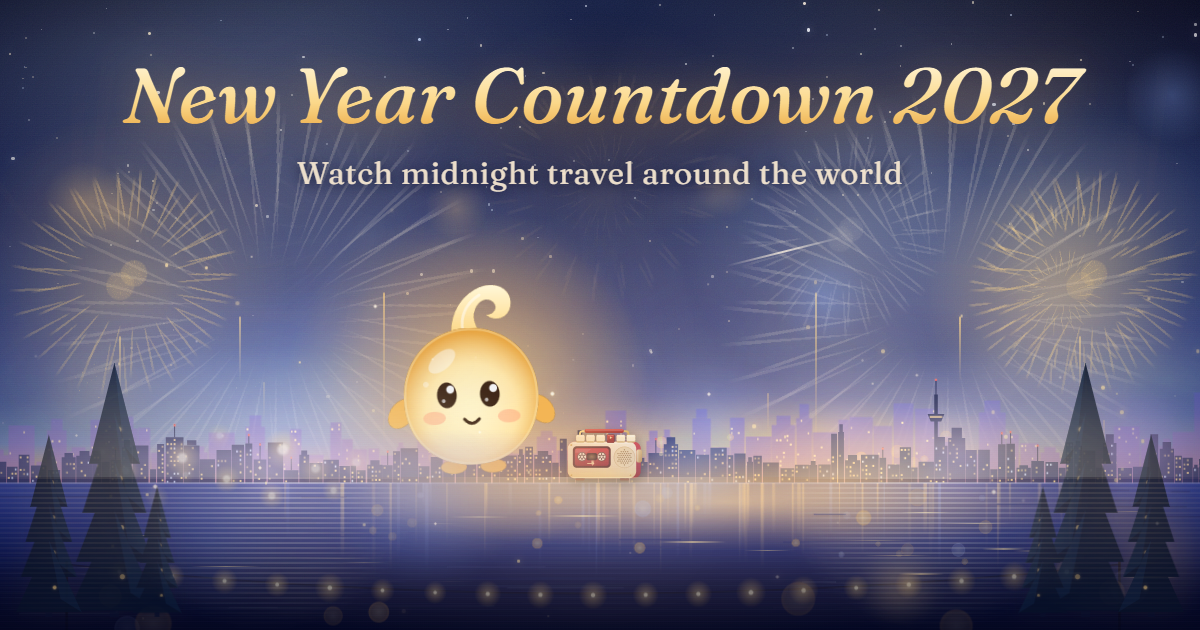
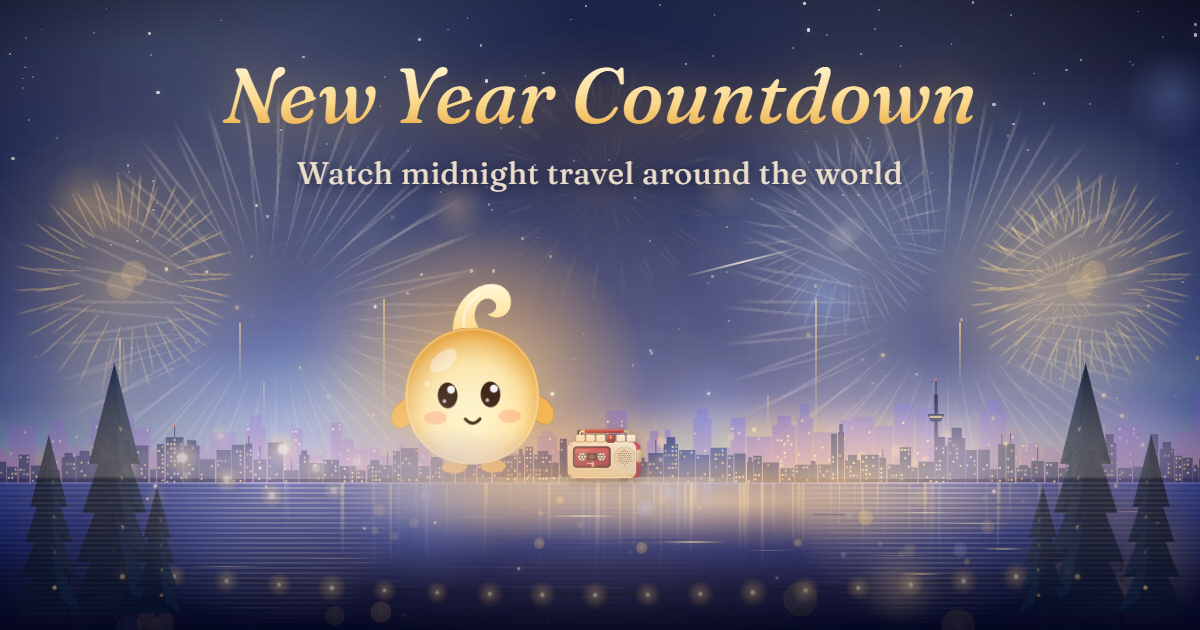
Made New Year branding evergreen

diff --git a/index.html b/index.html
@@ -18,27 +18,27 @@
       type="font/woff2"
       crossorigin
     />
-    <title>New Year Countdown 2027 – Live Countdown to Midnight</title>
-    <meta name="description" content="Live New Year countdown to 2027. Choose your city or time zone, watch midnight travel around the world on the map, and celebrate with fireworks at midnight." />
+    <title>New Year Countdown – Live Countdown to Midnight</title>
+    <meta name="description" content="Live New Year countdown. Choose your city or time zone, watch midnight travel around the world on the map, and celebrate with fireworks at midnight." />
     <link rel="canonical" href="https://newyear.seerat.me/" />
     <meta name="robots" content="index,follow,max-image-preview:large" />
     <meta name="author" content="Seerat.me" />
     <meta property="og:type" content="website" />
     <meta property="og:site_name" content="New Year Countdown" />
-    <meta property="og:title" content="New Year Countdown 2027 – Live Countdown to Midnight" />
-    <meta property="og:description" content="Live New Year countdown to 2027. Choose your city or time zone, watch midnight travel around the world on the map, and celebrate with fireworks at midnight." />
+    <meta property="og:title" content="New Year Countdown – Live Countdown to Midnight" />
+    <meta property="og:description" content="Live New Year countdown. Choose your city or time zone, watch midnight travel around the world on the map, and celebrate with fireworks at midnight." />
     <meta property="og:url" content="https://newyear.seerat.me/" />
     <meta property="og:locale" content="en_US" />
     <meta property="og:image" content="https://newyear.seerat.me/og-image.png" />
     <meta property="og:image:type" content="image/png" />
     <meta property="og:image:width" content="1200" />
     <meta property="og:image:height" content="630" />
-    <meta property="og:image:alt" content="Omid, a glowing round spirit, beside a cassette player under midnight fireworks above a city by the water, with the words New Year Countdown 2027." />
+    <meta property="og:image:alt" content="Omid, a glowing round spirit, beside a cassette player under midnight fireworks above a city by the water, with the words New Year Countdown." />
     <meta name="twitter:card" content="summary_large_image" />
-    <meta name="twitter:title" content="New Year Countdown 2027 – Live Countdown to Midnight" />
-    <meta name="twitter:description" content="Live New Year countdown to 2027. Choose your city or time zone, watch midnight travel around the world on the map, and celebrate with fireworks at midnight." />
+    <meta name="twitter:title" content="New Year Countdown – Live Countdown to Midnight" />
+    <meta name="twitter:description" content="Live New Year countdown. Choose your city or time zone, watch midnight travel around the world on the map, and celebrate with fireworks at midnight." />
     <meta name="twitter:image" content="https://newyear.seerat.me/og-image.png" />
-    <meta name="twitter:image:alt" content="Omid, a glowing round spirit, beside a cassette player under midnight fireworks above a city by the water, with the words New Year Countdown 2027." />
+    <meta name="twitter:image:alt" content="Omid, a glowing round spirit, beside a cassette player under midnight fireworks above a city by the water, with the words New Year Countdown." />
     <script type="application/ld+json">
 {
   "@context": "https://schema.org",
@@ -48,7 +48,7 @@
       "@id": "https://newyear.seerat.me/#website",
       "url": "https://newyear.seerat.me/",
       "name": "New Year Countdown",
-      "description": "Live New Year countdown to 2027. Choose your city or time zone, watch midnight travel around the world on the map, and celebrate with fireworks at midnight.",
+      "description": "Live New Year countdown. Choose your city or time zone, watch midnight travel around the world on the map, and celebrate with fireworks at midnight.",
       "inLanguage": "en"
     },
     {
@@ -56,7 +56,7 @@
       "@id": "https://newyear.seerat.me/#app",
       "url": "https://newyear.seerat.me/",
       "name": "New Year Countdown",
-      "description": "Live New Year countdown to 2027. Choose your city or time zone, watch midnight travel around the world on the map, and celebrate with fireworks at midnight.",
+      "description": "Live New Year countdown. Choose your city or time zone, watch midnight travel around the world on the map, and celebrate with fireworks at midnight.",
       "applicationCategory": "UtilitiesApplication",
       "operatingSystem": "Any",
       "browserRequirements": "Requires JavaScript",
@@ -81,9 +81,9 @@
   <body>
     <div id="root"></div>
     <noscript>
-      <h1>New Year Countdown 2027</h1>
+      <h1>New Year Countdown</h1>
       <p>
-        A live countdown to midnight on 1 January 2027. Choose a city or time zone and watch New Year move around the
+        A live countdown to midnight on the next 1 January. Choose a city or time zone and watch New Year move around the
         world. JavaScript is needed to run the countdown.
       </p>
     </noscript>

diff --git a/CLAUDE.md b/CLAUDE.md
@@ -148,7 +148,7 @@ Do not choose an SEO implementation yet unless the current task requires it.
 
 The app is installable and launches offline after one online visit. `public/site.webmanifest` (standalone, `start_url` `/`) and the icons in `public/` are the install package; `public/sw.js` is a small hand-written service worker registered by `src/pwa.ts` (production builds only). `vite.config.ts` (the `serviceWorker` plugin, no PWA library) fills in its precache list (every built file) and a build id hashed from the contents, so each deploy has its own cache: pages are network-first (never stale when online, cached copy offline or after 4 s), everything else comes from the cache, and a new build takes over at once and deletes the old cache. Hash pages and the language, city and music preferences are unaffected. No push, no background sync.
 
-**SEO / canonical:** the production URL is `https://newyear.seerat.me/` (single page; language is chosen client-side, so there are no `hreflang` alternates and the `#about`, `#privacy`, `#terms` hash pages are not in the sitemap). `index.html` carries the title ("New Year Countdown 2027 – Live Countdown to Midnight"), description, canonical, robots, Open Graph and Twitter tags, `og-image.png` (1200x630, rendered from the live scene, not precached) and JSON-LD (`WebSite` and `WebApplication`); `public/robots.txt` and `public/sitemap.xml` are static. The 2027 in those static tags and in the noscript text is written by hand: update it each year (and re-render `og-image.png`). Vercel Web Analytics (`@vercel/analytics`, `<Analytics />` in `main.tsx`, page views only, no custom events or Speed Insights, covered in the Privacy page; its `/_vercel/insights` script is same-origin but not precached, so it only loads online, and it must be switched on in the Vercel project settings); no keywords meta or sharing.
+**SEO / canonical:** the production URL is `https://newyear.seerat.me/` (single page; language is chosen client-side, so there are no `hreflang` alternates and the `#about`, `#privacy`, `#terms` hash pages are not in the sitemap). `index.html` carries the title ("New Year Countdown – Live Countdown to Midnight"), description, canonical, robots, Open Graph and Twitter tags, `og-image.png` (1200x630, rendered from the live scene, not precached) and JSON-LD (`WebSite` and `WebApplication`); `public/robots.txt` and `public/sitemap.xml` are static. The static tags, the noscript text and `og-image.png` carry no year, so nothing needs updating yearly (the app shows the target year from the countdown logic; to re-render the image, shoot the live scene with the title and tagline overlaid). Vercel Web Analytics (`@vercel/analytics`, `<Analytics />` in `main.tsx`, page views only, no custom events or Speed Insights, covered in the Privacy page; its `/_vercel/insights` script is same-origin but not precached, so it only loads online, and it must be switched on in the Vercel project settings); no keywords meta or sharing.
 
 The countdown itself should remain functional offline using local time data.
 
